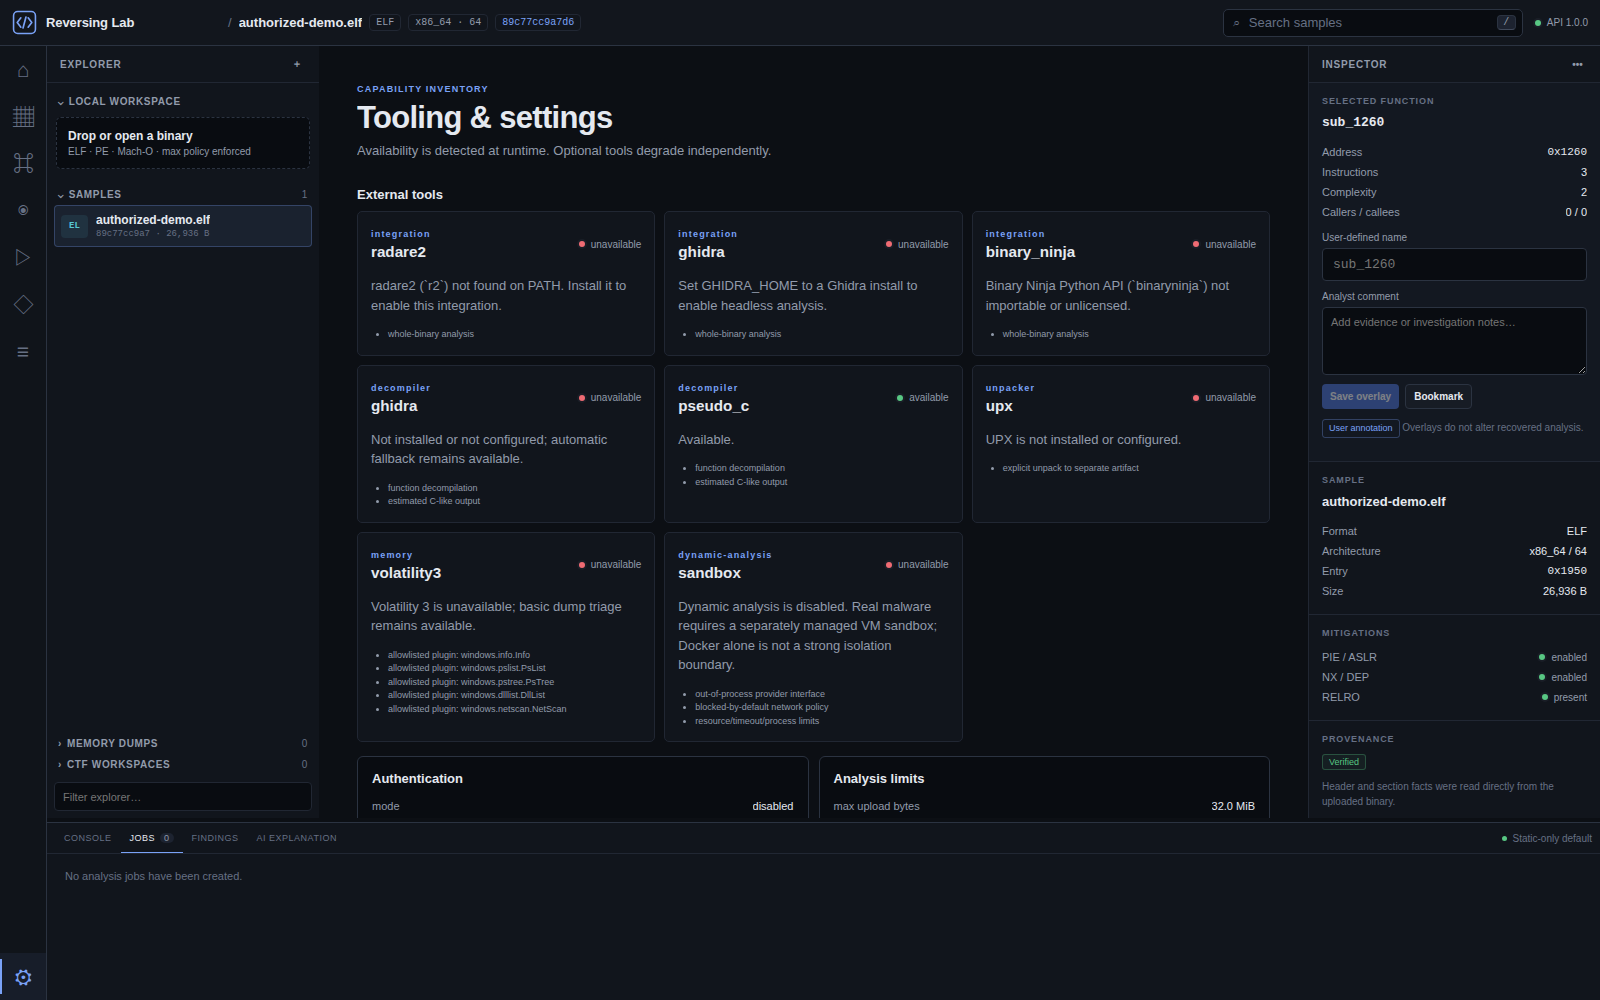
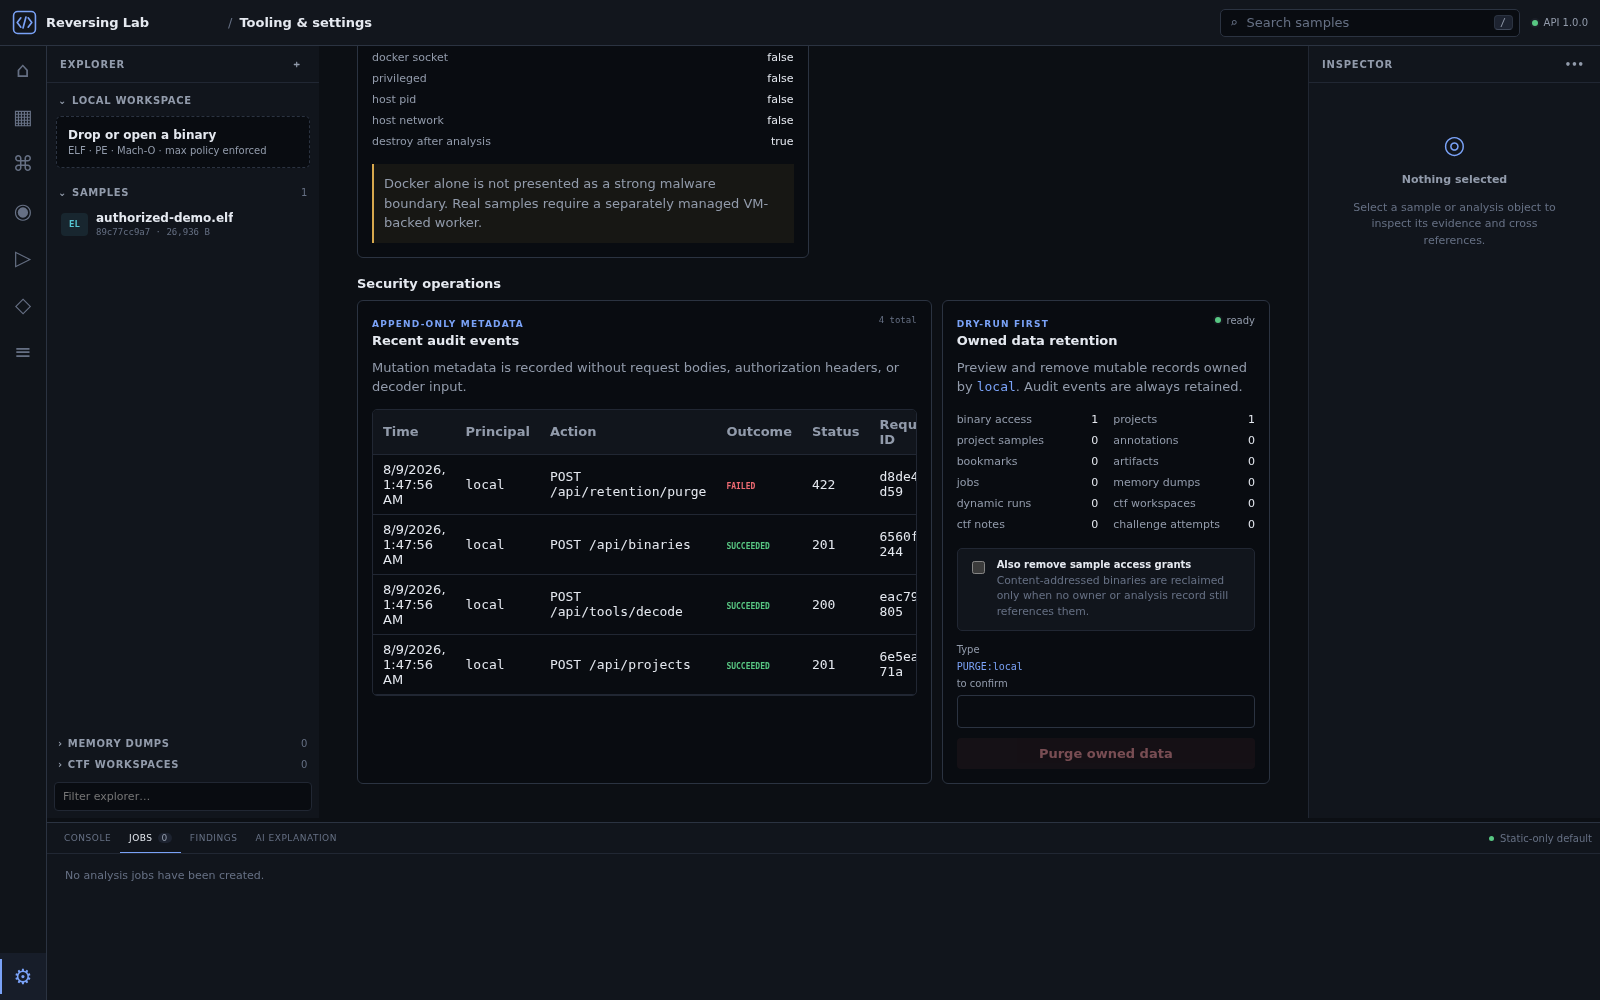
docs: document audit and retention workflows

diff --git a/docs/ARCHITECTURE.md b/docs/ARCHITECTURE.md
@@ -24,7 +24,7 @@ FastAPI
 ├── api/routes
 │   ├── binaries / analysis / reports
 │   ├── memory / dynamic / jobs
-│   └── projects / CTF / tooling / challenges
+│   └── projects / CTF / tooling / audit / retention / challenges
 ├── parser ── normalized BinaryInfo
 ├── analysis + analyzer + disassembler
 ├── decompiler adapters
@@ -79,6 +79,21 @@ api → analysis/analyzer/disassembler/decompiler/memory/dynamic → parser.mode
 4. provider output is bounded and stored as compressed events/artifact metadata.
 5. the API never substitutes local subprocess execution.
 
+### Mutation audit and retention
+
+1. authorization resolves the principal before a mutation reaches a route;
+2. middleware assigns a server UUID request ID and records only method, matched route
+   template, status/outcome, principal, role, and allowlisted resource identifiers;
+3. request bodies, authorization headers, query values, and decoder input are never
+   copied into audit storage;
+4. retention preview counts only the current principal's resources, including for an
+   administrator;
+5. purge requires the exact `PURGE:<principal-id>` confirmation and refuses while an
+   owned job is queued or running;
+6. the database transaction commits before files are removed, paths must be direct
+   children of configured storage roots, and referenced content-addressed binaries
+   remain intact.
+
 ## Data and persistence
 
 SQLAlchemy models index projects, binaries, annotations, bookmarks, jobs, artifacts,
@@ -105,7 +120,13 @@ job/run/dump. Admins retain cross-owner operational access.
 Physical binary bytes remain deduplicated by SHA-256. The grant row owns the analyst's
 display filename, avoiding cross-owner filename leakage without duplicating content.
 This database boundary does not replace a mature identity provider, persistent audit
-trail, rate limiting, or deployment-level isolation.
+archive, rate limiting, or deployment-level isolation.
+
+Revision 0005 adds append-only mutation audit metadata. Reads are principal-scoped,
+while administrators can inspect all principals. Audit rows intentionally outlive the
+built-in owned-data purge. They are append-only by repository/API convention, not a
+cryptographically sealed or WORM-backed ledger; production deployments should export
+them to an independently controlled audit system.
 
 ## Analysis accuracy and provenance
 
@@ -136,7 +157,7 @@ Large UI tables use windowed rendering.
 - a simple DB-backed thread runner fits local deployment; distributed queues can be
   added behind the runner interface later.
 - no graph/editor/state library was added. SVG layouts, hooks, and hash routing keep
-  the production bundle small; current JS is about 69 KiB gzip.
+  the production bundle small; current JS is about 71 KiB gzip.
 - Vitest/Testing Library are development-only and do not enter the production bundle.
 
 ## Current extension seams

diff --git a/docs/SECURITY.md b/docs/SECURITY.md
@@ -12,9 +12,17 @@ The built-in roles are deliberately coarse. Viewers are HTTP read-only, analysts
 mutate state, and admins may audit all resources. Non-admin access is enforced through
 binary grants and owner-scoped repositories for projects, overlays, artifacts, jobs,
 dumps, dynamic runs, CTF state, and reports. Cross-owner lookups return 404. This is
-still not a complete identity/control plane: OIDC, centralized revocation, persistent
-audit events, retention APIs, and server-side rate limits remain future work. See
+still not a complete identity/control plane: OIDC, centralized revocation, and
+server-side rate limits remain future work. See
 [AUTHENTICATION.md](AUTHENTICATION.md).
+
+Mutation requests receive a server-generated request ID and append method, matched
+route template, principal/role, resource metadata, status, and outcome to the database.
+The audit path never stores request bodies, authorization headers, query strings, or
+decoder input. The repository exposes no update/delete method, and built-in retention
+never deletes audit rows. This is application-level append-only behavior, not a
+cryptographically sealed ledger; ship events to independent append-only storage for a
+strong operational audit boundary.
 
 ## Upload and storage controls
 
@@ -61,6 +69,14 @@ Analyst notes are stored and HTML report output escapes them. Dynamic/memory bul
 uses compressed artifacts. Logs should contain identifiers and state, not raw sample
 contents or decoder input.
 
+Owned-data deletion is explicit and dry-run-first. Even an administrator can purge only
+the current principal's scope. Exact typed confirmation is required; queued/running
+owned jobs cause HTTP 409. Binary grants are optional in the purge, and physical sample
+bytes are reclaimed only after all access and analysis references are gone. Metadata is
+committed before unlinking, and only direct files under configured storage roots can be
+removed. Operators still need backup, legal hold, retention duration, and secure media
+disposal policies.
+
 ## Production hardening checklist
 
 - enable API-key auth or add OIDC, terminate TLS, rate-limit failures, and redact
@@ -73,7 +89,7 @@ contents or decoder input.
 - keep storage non-executable and mount it `noexec,nodev,nosuid`;
 - restrict outbound network and CORS origins;
 - run API/UI as non-root users;
-- ship audit logs to append-only storage;
+- ship built-in audit events to independently controlled append-only storage;
 - scan dependencies and container images in CI;
 - rotate/delete samples according to legal retention requirements.
 

diff --git a/docs/API.md b/docs/API.md
@@ -18,6 +18,10 @@ CTF state, and reports use or inherit the principal owner scope. Cross-owner ide
 return 404; admins retain global audit access. Configuration and residual identity
 limitations are documented in [AUTHENTICATION.md](AUTHENTICATION.md).
 
+Every response includes a server-generated `X-Request-ID`. POST/PATCH/PUT/DELETE
+requests create an audit event after handling. Audit metadata excludes the body,
+authorization header, query string, and decoder input.
+
 ## Samples and static analysis
 
 | Method | Endpoint |
@@ -70,6 +74,21 @@ Functions, strings, hex, graphs, and high-volume analysis are bounded or paginat
 Decoder input is not persisted. Transform operation names and parameter types are
 allowlisted by Pydantic.
 
+## Audit and owned-data retention
+
+| Method | Endpoint | Behavior |
+|---|---|---|
+| GET | `/audit-events?offset=0&limit=100` | principal-scoped page; admins can inspect all principals |
+| GET | `/retention/preview?include_binary_access=false` | counts current-principal records without deleting |
+| POST | `/retention/purge` | deletes current-principal mutable state after exact confirmation |
+
+Audit filters are `action`, `resource_type`, and `outcome=succeeded|denied|failed`;
+`limit` is capped at 500. Purge accepts JSON
+`{"confirmation":"PURGE:<principal-id>","include_binary_access":false}`. It never
+purges another owner implicitly, even for admins, and it retains audit events. Active
+owned jobs return 409. Including binary access deletes physical hash content only if no
+grant or analysis reference remains.
+
 ## Errors
 
 - `404`: unknown content hash/resource or malformed binary identifier;
@@ -78,7 +97,7 @@ allowlisted by Pydantic.
 - `422`: malformed address/request or analysis failure mapped to client-safe detail;
 - `401`: missing or invalid bearer key when authentication is enabled;
 - `403`: authenticated viewer attempted a mutation;
-- `409`: result requested before job completion;
+- `409`: result requested before job completion or retention blocked by an active job;
 - `503`: explicitly requested optional tool/provider is unavailable.
 
 Example:

diff --git a/docs/IMPLEMENTATION_PLAN.md b/docs/IMPLEMENTATION_PLAN.md
@@ -143,7 +143,7 @@ verification before the follow-up hardening work was:
 Subsequent hardening added Alembic revisions, optional API-key roles, project
 ownership, and PostgreSQL 16 migration/repository contract CI. Remaining items are
 recorded in [ROADMAP.md](ROADMAP.md), including production database operations, full
-OIDC/audit/retention controls, RetDec/r2ghidra, richer memory normalization, and a
+OIDC and external audit archival, RetDec/r2ghidra, richer memory normalization, and a
 real VM-backed sandbox provider.
 
 Follow-up verification on 2026-08-02: 104 backend tests and 10 frontend tests passed;
@@ -157,3 +157,11 @@ Resource-ownership follow-up on 2026-08-02: revision 0004 added content-addresse
 binary grants and principal ownership for mutable investigation resources. SQLite and
 PostgreSQL contracts cover legacy `local` backfill, cross-owner 404 responses,
 per-principal filenames and overlays, and admin audit access.
+
+Audit/retention follow-up on 2026-08-09: revision 0005 added request-correlated,
+body-free mutation audit metadata and a principal-scoped audit API/UI. Retention now
+supports preview, exact typed confirmation, active-job refusal, optional grant removal,
+and reference-safe file reclamation under configured roots. Verification passed 117
+default backend tests plus the PostgreSQL 16 contract, 15 frontend tests, production
+build, Alembic drift/round-trip checks on both dialects, and a zero-vulnerability npm
+audit.

diff --git a/docs/THREAT_MODEL.md b/docs/THREAT_MODEL.md
@@ -42,6 +42,9 @@ are operator-controlled but still validated before sensitive use.
 | unauthenticated access | optional digest-backed bearer keys, fail-fast configuration | auth is disabled by default; TLS and proxy rate limiting are operator duties |
 | cross-user resource access | binary grants, owner-scoped repositories, inherited parent scope, 404 on mismatch | admin is globally trusted; authorization bugs remain possible |
 | filename metadata disclosure | per-grant display filenames; hash-only storage paths | admins can inspect global metadata for operations |
+| audit secret capture | body/header/query-free mutation metadata and route templates | database operators remain trusted; events are not cryptographically sealed |
+| destructive cross-owner purge | current-principal repository scope, exact confirmation, active-job lock | operator backups/legal holds remain deployment duties |
+| unsafe file reclaim | reference checks and direct-child configured-root validation | filesystem races and secure-media erasure need deployment controls |
 | resource starvation | bounded jobs/results, cancellation | in-process runner is not a hard CPU isolation boundary |
 
 ## Abuse cases explicitly rejected

diff --git a/docs/ROADMAP.md b/docs/ROADMAP.md
@@ -14,14 +14,16 @@
 - PostgreSQL 16 migration round-trip CI and 64-bit repository contract tests;
 - optional digest-backed bearer authentication, coarse roles, full resource ownership
   migration, and content-addressed binary access grants;
+- body-free append-only mutation audit events, request correlation, principal-scoped
+  audit UI, and dry-run-first owned-data retention with reference-safe file reclaim;
 - backend/frontend/security regression tests, CI, development containers.
 
 ## Near term
 
 1. PostgreSQL backup/restore rehearsal, TLS deployment guide, concurrency/load testing,
    and production observability.
-2. OIDC/short-lived credentials, audit-event persistence, retention/deletion API, and
-   server-side rate limiting.
+2. OIDC/short-lived credentials, centralized revocation, server-side rate limiting,
+   and audit export to signed/WORM-backed storage with archival policy.
 3. RetDec and r2ghidra adapters with the same process hardening contract.
 4. richer PE/ELF mitigation metadata: canary, CFG, signing, debug/build ID, TLS, overlay.
 5. paginated artifact download and explicit report association for memory/dynamic runs.

diff --git a/docs/AUTHENTICATION.md b/docs/AUTHENTICATION.md
@@ -71,8 +71,13 @@ They intentionally share the same owner scope.
 
 This is an application-level owner boundary, not a complete hardened multi-tenant
 identity system. API keys are long-lived, admin access is global, and OIDC, centralized
-revocation, persistent audit events, retention workflows, and server-side rate limits
-are not yet implemented. Use separate deployments for strongly isolated tenants.
+revocation, audit-event sealing/external archival, and server-side rate limits are not
+yet implemented. Use separate deployments for strongly isolated tenants.
+
+Mutation audit events store the principal and role but never the bearer value or request
+body. Admins may read all audit events. Owned-data retention is deliberately narrower:
+an admin purge still targets only the admin principal and requires the exact current
+principal confirmation. Audit events are retained by that workflow.
 
 ## Operational requirements
 

diff --git a/docs/DEVELOPMENT.md b/docs/DEVELOPMENT.md
@@ -59,8 +59,8 @@ pytest tests/test_migrations.py
 
 `python -m reversing_lab.database.migrate` upgrades fresh/versioned databases. An older
 unversioned `create_all` database is stamped only after its table and column sets match
-a known revision; initial, pre-project-owner, and pre-resource-owner schemas are
-recognized.
+a known revision; initial, pre-project-owner, pre-resource-owner, and pre-audit schemas
+are recognized.
 Partial or drifted schemas are rejected. Back up real data before stamping or upgrading.
 `init_db()` retains idempotent `create_all` behavior for local backward compatibility,
 but production startup should run the migration bootstrap first.
